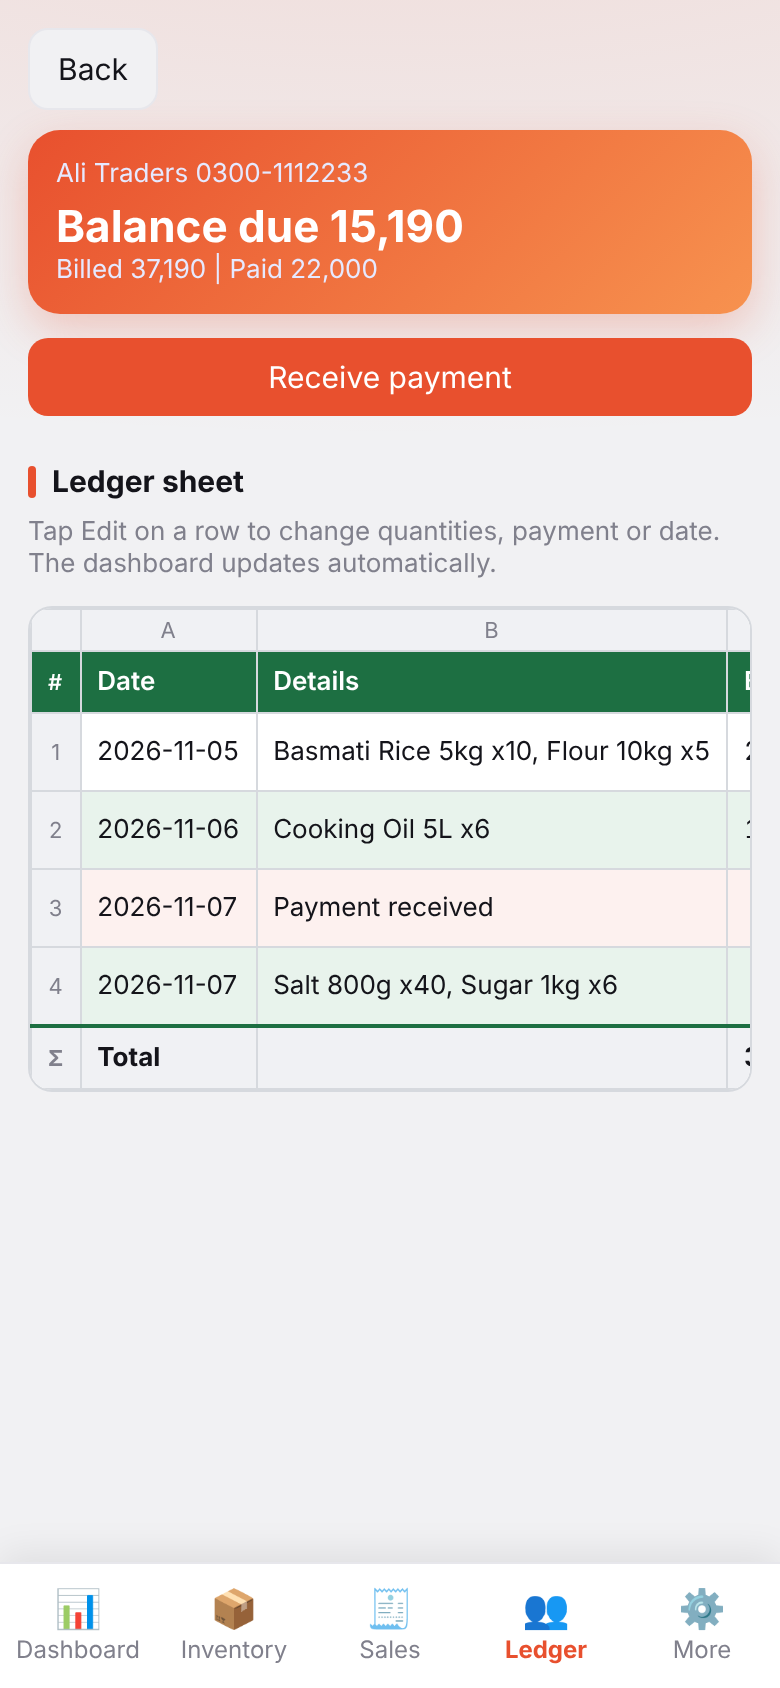
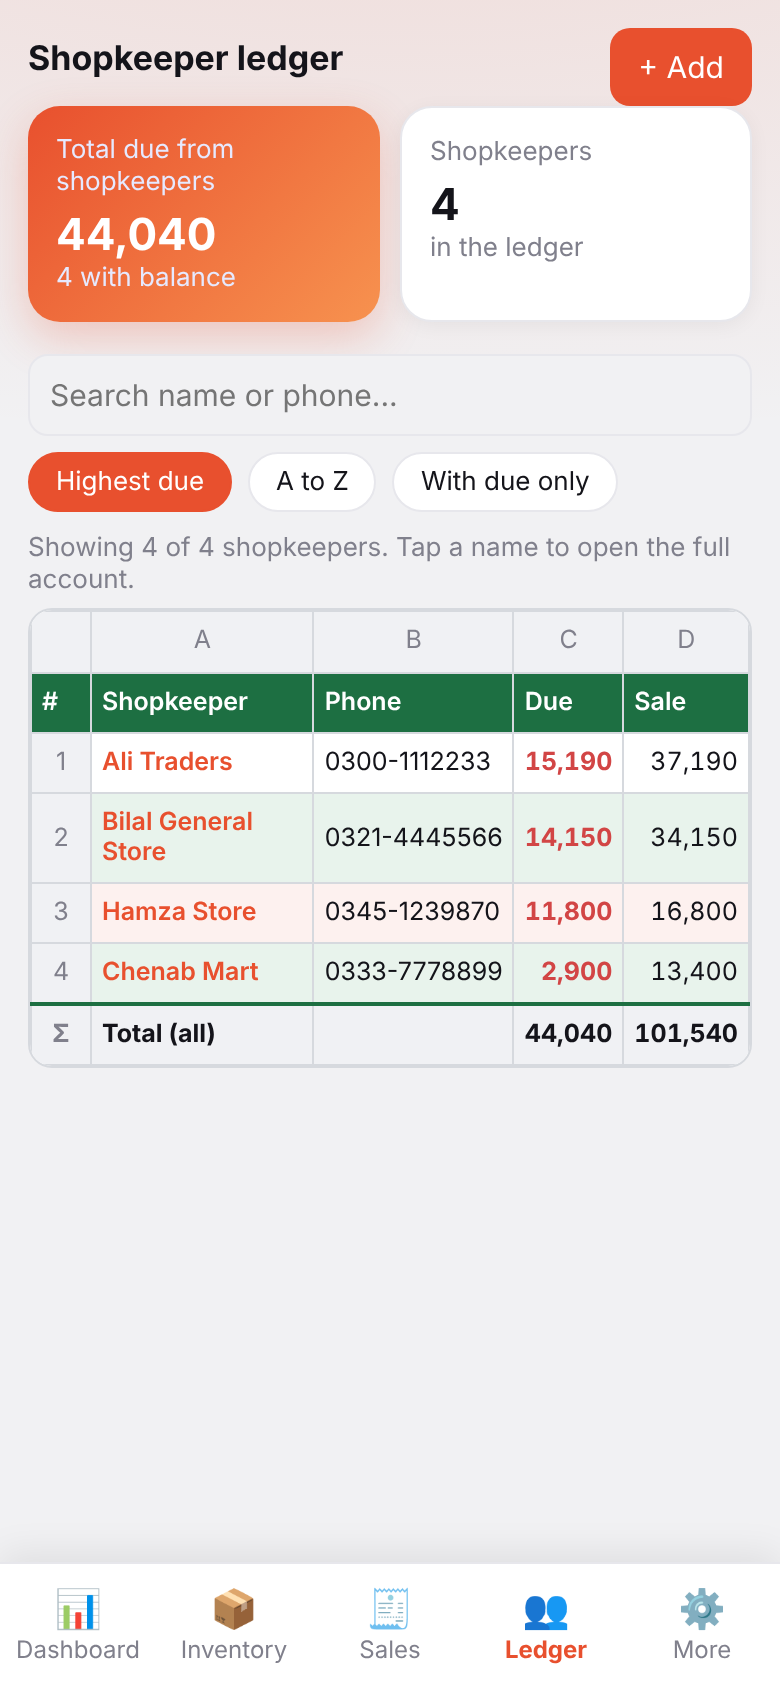
Smart shopkeeper ledger: table with phone and due, search and sort, date-wise account

Changed region(s): [[0.0308, 0.0, 0.9846, 0.6469]]

diff --git a/www/index.html b/www/index.html
@@ -66,7 +66,7 @@ table.sheet tr.ab th:first-child,table.sheet tr.hd th.rn{z-index:4}
 table.sheet tbody tr:hover td:not(.rn){background:#e8502e14!important}
 table.sheet tr.ft td{position:sticky;bottom:0;z-index:2}
 table.sheet input:focus{outline:2px solid var(--pr);outline-offset:0}
-.ttl .arr{margin-left:auto;width:32px;height:32px}.ttl span{flex:1}</style></head><body>
+.ttl .arr{margin-left:auto;width:32px;height:32px}.ttl span{flex:1}.chip{border:1px solid var(--bd);background:var(--card);border-radius:99px;padding:6px 13px;font-size:13px;cursor:pointer}.chip.on{background:var(--pr);color:#fff;border-color:var(--pr)}@media(max-width:699px){#cbox table.sheet td,#cbox table.sheet th{padding:7px 5px;font-size:12.5px}#cbox table.sheet td:nth-child(2){white-space:normal;min-width:84px}}</style></head><body>
 <script src="db.js"></script>
 <div id="ptr"></div><div id="toast"></div><div id="app"></div><nav id="nav"></nav><div id="modal"><div class="box" id="mb"></div></div>
 <script>
@@ -388,6 +388,37 @@ function pickAdd(){const p=S.products.find(x=>x.id==pickId);if(!p)return alert('
 function addItem(){if(!S.products.length)return form('No products',[],()=>true,'OK');pickId=null;
  modal('<h2>Add item</h2><input id="ps" type="search" placeholder="Search product name..." autocomplete="off" oninput="pickList()" onkeydown="if(event.key==\'Enter\'){const L=pickMatches();if(L.length)pickSel(L[0].id)}"><div id="pl" style="max-height:38vh;overflow:auto;border:1px solid var(--bd);border-radius:10px"></div><div id="pc" class="mu" style="margin:8px 0">No product selected</div><label class="mu">Quantity</label><input id="pq" type="number" min="1" value="1"><div style="display:flex;gap:8px"><button class="btn s w" onclick="close()">Cancel</button><button class="btn w" id="pa">Add</button></div>');
  pickList();$('#pa').onclick=pickAdd;setTimeout(()=>{const e=$('#ps');if(e)e.focus()},60)}
+
+// ---------- smart shopkeeper ledger ----------
+let custQ='',custSort='due',custDue=false;
+function custStats(c){const bs=billsOf(c.id),ps=paysOf(c.id),billed=bs.reduce((a,x)=>a+x.total,0),paid=bs.reduce((a,x)=>a+x.paid,0)+ps.reduce((a,x)=>a+x.amt,0);return{billed,paid,due:billed-paid,n:bs.length}}
+function custSheet(){const q=custQ.trim().toLowerCase();
+ let L=S.customers.map(c=>({c,s:custStats(c)})).filter(o=>(!q||o.c.name.toLowerCase().includes(q)||(o.c.phone||'').includes(q))&&(!custDue||o.s.due>0));
+ L.sort(custSort=='az'?(a,b)=>a.c.name.localeCompare(b.c.name):(a,b)=>b.s.due-a.s.due);
+ let td=0,tb=0;S.customers.forEach(c=>{const x=custStats(c);td+=x.due;tb+=x.billed});
+ const rows=L.map(o=>['<a style="color:var(--pr);cursor:pointer;font-weight:600" onclick="sub=\''+o.c.id+'\';draw()">'+esc(o.c.name)+'</a>',o.c.phone?'<a href="tel:'+esc(o.c.phone)+'" style="color:inherit;text-decoration:none">'+esc(o.c.phone)+'</a>':'<span class="mu">-</span>','<b class="'+(o.s.due>0?'bad':'ok')+'">'+M(o.s.due)+'</b>',M(o.s.billed)]);
+ return '<div class="mu" style="margin:0 0 6px">Showing '+L.length+' of '+S.customers.length+' shopkeepers. Tap a name to open the full account.</div>'+sheet(['Shopkeeper','Phone','Due','Sale'],rows,['Total (all)','',M(td),M(tb)],['l','l','r','r'])}
+function editCust(id){const c=S.customers.find(x=>x.id==id);form('Edit shopkeeper',[['n','Name','text',c.name],['ph','Phone','tel',c.phone||'']],v=>{if(!v.n.trim())return false;c.name=v.n.trim();c.phone=v.ph.trim();save();draw()})}
+function newBillFor(id){bill={cust:id,items:[],paid:''};sub=null;tab='sales';draw()}
+function custs(){
+ if(!sub){const dueN=S.customers.filter(c=>custStats(c).due>0).length,td=S.customers.reduce((a,c)=>a+custStats(c).due,0);
+  const chip=(t,on,f)=>'<button class="chip'+(on?' on':'')+'" onclick="'+f+';draw()">'+t+'</button>';
+  return '<div class="tg"><h2>Shopkeeper ledger</h2><button class="btn" onclick="addCust()">+ Add</button></div>'+
+  '<div class="grid"><div class="card hero"><div class="mu">Total due from shopkeepers</div><div class="big">'+M(td)+'</div><div class="mu">'+dueN+' with balance</div></div><div class="card"><div class="mu">Shopkeepers</div><div class="big">'+S.customers.length+'</div><div class="mu">in the ledger</div></div></div>'+
+  '<input type="search" id="cq" placeholder="Search name or phone..." autocomplete="off" value="'+esc(custQ)+'" oninput="custQ=this.value;$(\'#cbox\').innerHTML=custSheet()">'+
+  '<div style="display:flex;gap:8px;flex-wrap:wrap;margin-bottom:10px">'+chip('Highest due',custSort=='due',"custSort='due'")+chip('A to Z',custSort=='az',"custSort='az'")+chip('With due only',custDue,'custDue=!custDue')+'</div><div id="cbox">'+custSheet()+'</div>'}
+ const c=S.customers.find(x=>x.id==sub);if(!c){sub=null;return custs()}
+ const ev=[...billsOf(sub).map(x=>({k:'b',id:x.id,d:x.date,t:x.items.map(i=>pname(i.pid)+' x'+i.qty).join(', '),a:x.total,p:x.paid})),...paysOf(sub).map(x=>({k:'p',id:x.id,d:x.date,t:'Payment received',a:0,p:x.amt}))].sort((a,b)=>a.d>b.d?1:-1);
+ let run=0,ta=0,tp=0;const tx=ev.map(e=>{run+=e.a-e.p;ta+=e.a;tp+=e.p;return[e.d,esc(e.t),e.a?M(e.a):'',e.p?M(e.p):'',M(run),'<button class="btn s" style="padding:3px 9px" onclick="'+(e.k=='b'?'editBill':'editPay')+'(\''+e.id+'\')">Edit</button>']}).reverse();
+ const byD={};ev.forEach(e=>{const o=byD[e.d]=byD[e.d]||{b:0,s:0,p:0};if(e.k=='b')o.b++;o.s+=e.a;o.p+=e.p});
+ let r2=0,nb=0;const dw=Object.keys(byD).sort().map(d=>{const o=byD[d];r2+=o.s-o.p;nb+=o.b;return[d,o.b||'',o.s?M(o.s):'',o.p?M(o.p):'','<b class="'+(r2>0?'bad':'ok')+'">'+M(r2)+'</b>']}).reverse();
+ const last=ev.length?ev[ev.length-1].d:'-';
+ return '<div style="display:flex;gap:8px;margin-bottom:10px"><button class="btn s" onclick="sub=null;draw()">Back</button><button class="btn s" onclick="editCust(\''+sub+'\')">Edit name or phone</button></div>'+
+ '<div class="card hero"><div class="mu">'+esc(c.name)+(c.phone?' | <a href="tel:'+esc(c.phone)+'" style="color:#fff">'+esc(c.phone)+'</a>':'')+'</div><div class="big">Balance due '+M(ta-tp)+'</div></div>'+
+ '<div class="grid"><div class="card"><div class="mu">Total sale</div><div class="big">'+M(ta)+'</div></div><div class="card"><div class="mu">Total received</div><div class="big ok">'+M(tp)+'</div></div><div class="card"><div class="mu">Bills</div><div class="big">'+nb+'</div></div><div class="card"><div class="mu">Last entry</div><div class="big" style="font-size:17px">'+last+'</div></div></div>'+
+ '<div style="display:flex;gap:8px;margin-bottom:12px"><button class="btn w" onclick="recv(\''+sub+'\')">Receive payment</button><button class="btn s w" onclick="newBillFor(\''+sub+'\')">New bill</button></div>'+
+ secH('Date-wise account','foldLedDate')+'<div class="fold'+(S.cfg.foldLedDate?' c':'')+'"><div>'+sheet(['Date','Bills','Sale','Received','Balance'],dw,['Total',nb,M(ta),M(tp),M(ta-tp)],['l','r','r','r','r'])+'</div></div>'+
+ secH('All entries (tap Edit to change)','foldLedTx')+'<div class="fold'+(S.cfg.foldLedTx?' c':'')+'"><div>'+sheet(['Date','Details','Bill','Paid','Balance',''],tx,['Total','',M(ta),M(tp),M(ta-tp),''],['l','l','r','r','r','l'])+'</div></div>'}
 (window.DBX?DBX.boot().then(function(st){if(st&&(!S.savedAt||(st.savedAt||'')>=S.savedAt)){S=st;vd=S.cur;unlocked=!S.cfg.lock;fixCfg()}else DBX.queue(S)}).catch(function(e){console.error(e)}):Promise.resolve()).then(function(){draw()});
 if('serviceWorker' in navigator&&location.protocol.startsWith('http'))navigator.serviceWorker.register('sw.js').catch(function(){});
 </script></body></html>

diff --git a/README.md b/README.md
@@ -62,7 +62,7 @@ The APK itself is **not** included: it must be built with the Android toolchain 
 | Dashboard | Date picker. Cards: Total sales, Units sold, Stock remaining, Payments received, Total outstanding, Total stock value (current stock x sale price, falls as sales happen). Arrow button folds the cards so the sheets move up. Stock info bars (high / near-low / low). Daily stock sheet (sold, left) and Daily sales sheet. |
 | Inventory | Excel-style sheet. Price and stock cells are editable in place. "+" adds received stock. Add product. |
 | Sales | Pick a shopkeeper (or add one), add items, enter the amount paid now, save. Stock is checked and reduced. |
-| Ledger | Shopkeeper list with billed, paid, balance. Tap a name for the full account with running balance. Edit button on every bill (quantities, paid, date, delete) and payment (amount, date, delete). Receive payment button. |
+| Ledger | Table of shopkeepers (name, phone, due, total sale) with search, sort and a due-only filter; tap a phone number to call. Tap a name for the full account: totals, a date-wise account and every entry. Tap a name for the full account with running balance. Edit button on every bill (quantities, paid, date, delete) and payment (amount, date, delete). Receive payment button. |
 | More > Close day | Saves the day's closing stock snapshot, moves to the next date. Choose: carry remaining stock, or start fresh (stock set to 0, then add new stock). |
 | More > Reset center | Reset one date, one month, or the entire app (type RESET). Settings and password are kept on full reset. |
 | Admin panel | App lock + password, shop name, card titles and visibility, low / near-low thresholds, CSV product import with demo file, reports (CSV and A4 / Legal print files), full Excel workbook, JSON backup and restore. |
